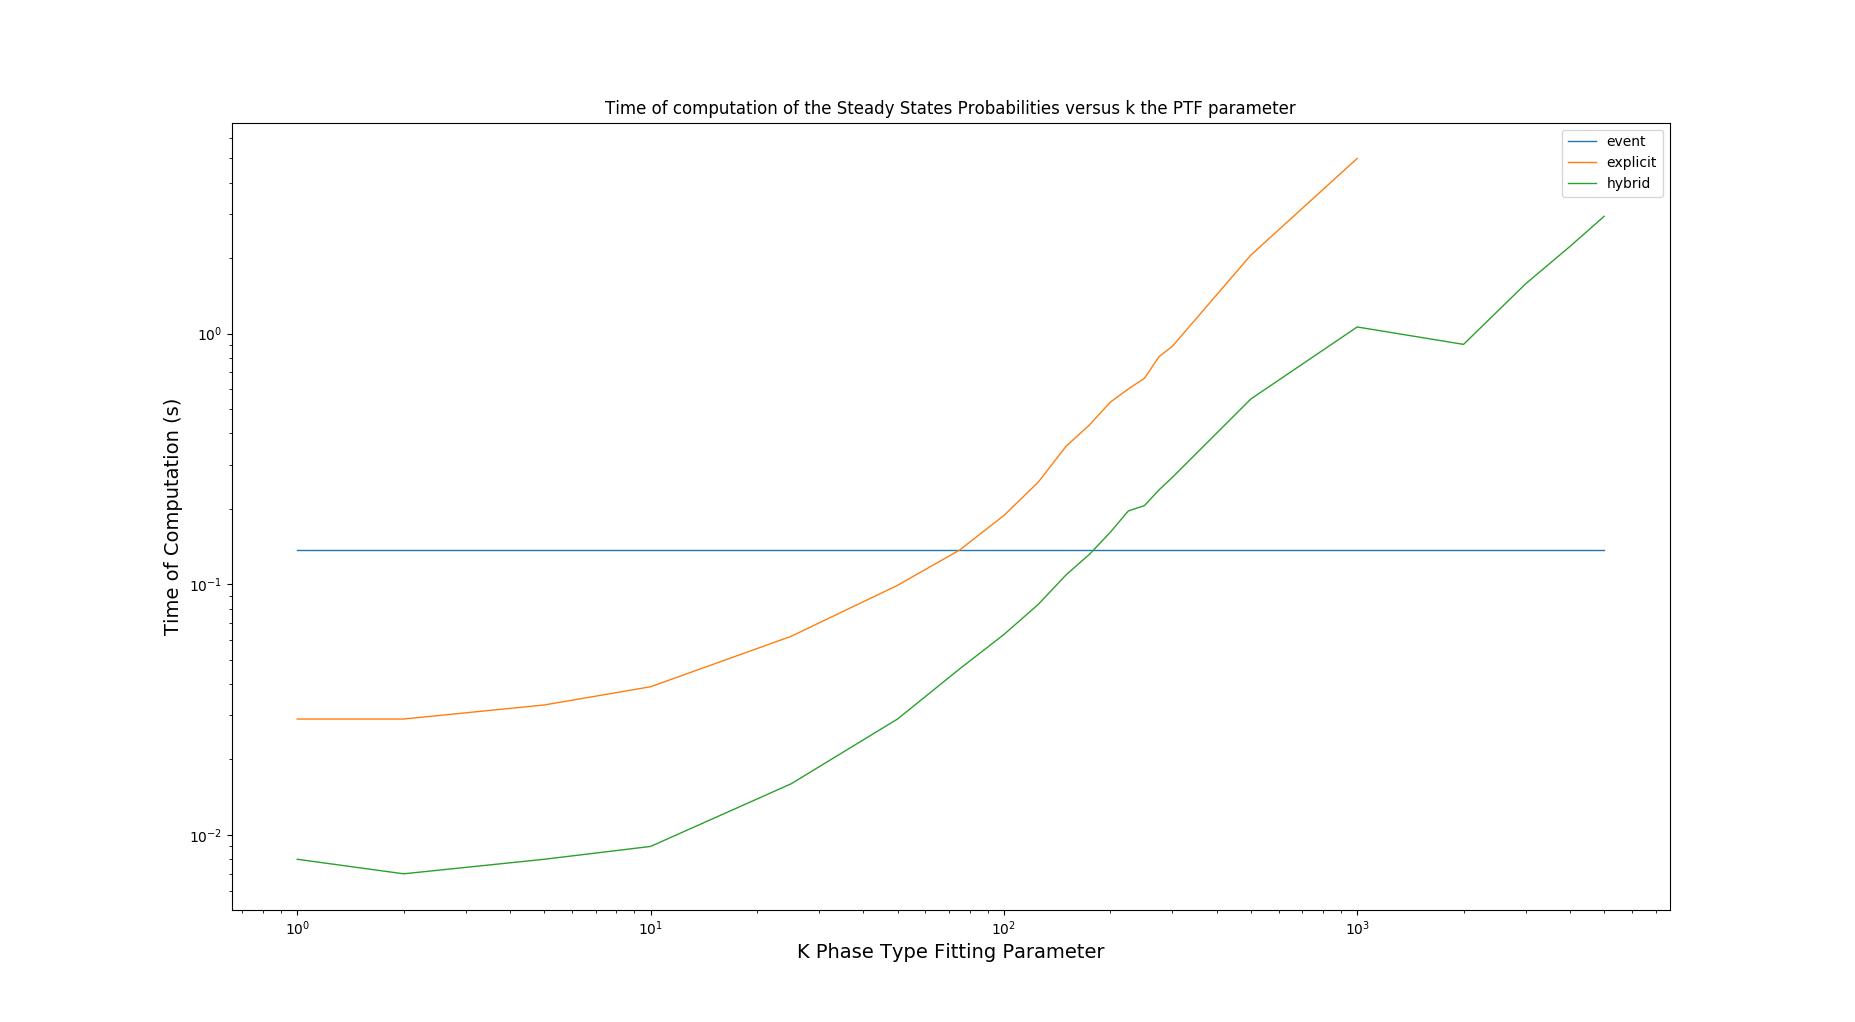
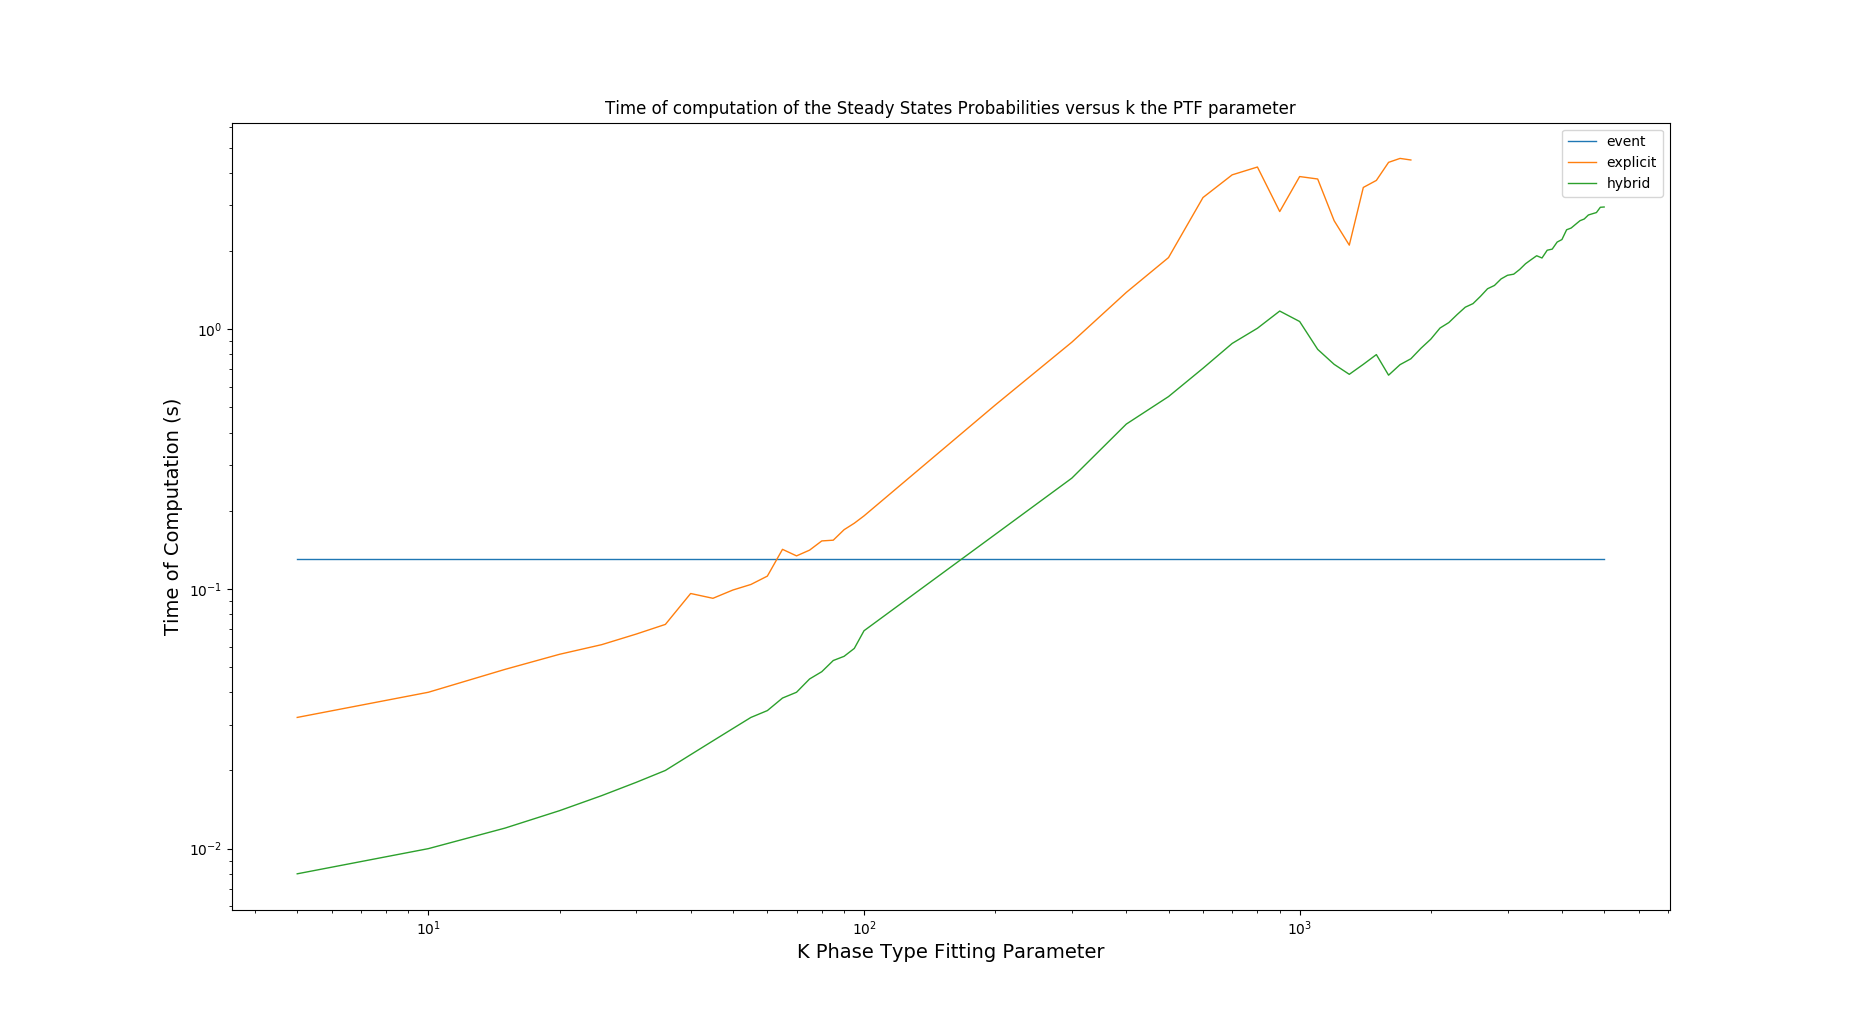
esp ==> esp

diff --git a/Python/curves.py b/Python/curves.py
@@ -8,7 +8,7 @@ from norm import *
 #GLOBAL VARIABLE
 path = '../Output/'
 eps = "1E-5"
-esp_precise = "1E-8"
+eps_precise = "1E-8"
 
 #CURVES
 def curve_10_random():
@@ -84,72 +84,36 @@ def curve01():
 ########################################################################
 #############################DISTANCE PER POINT#########################
 
-def diff_explicit_01():	
-	#t=0.1
-	#lambda=1/t
+def distance_per_state(t,kind_of_t,norm,engine):	
+	#CONSTANT
 	#n=10
-
+	#PARAMETERS : 
+	#1 	t(float) is the timeout in sec
+	#2 	kind_of_t(string) is how t was choosen in {"regular","median"} according to lambda
+	#3 	norm(string) is how the norm that must be use for defining the distance {"norm_2","norm_infinite"}
+	#4 	engine(string) is the engine used in computation {"explicit","hybrid"}
 	
-	subpath = 't=0.1/'
-	plt.yscale('linear')
-	plt.xscale('linear')
-	plt.xlabel('Size of the Queue', fontsize=14, color='black')
-	plt.ylabel('Euclidean distance per size', fontsize=14, color='black')
-	plt.title('distance of SSP for a queue versus phase type fitting parameter k\ntimeout=0.1,lambda=1/timeout,engine=explicit')
-	x = range(0,11,1)
-	k_array = [1, 2, 5, 25, 50, 75, 100, 125, 150, 175, 200, 225, 250, 275, 300]
-	#hybrid
+	#DATA
+	if (kind_of_t=="median"):												#set the kind_of_t for naming
+		subpath = 't='+str(t)+'_median/'
+	else:
+		subpath = 't='+str(t)+'/'
+
+	states = range(0,11,1)
+	k_explicit = read_file(path+subpath+engine+'k_array')						#load the bottom line for explicit
+	
+	
 	for k in k_array:
 		y_k = read_file(path+subpath+'explicit/sumph_10_'+str(k))
-		y_0 = read_file(path+subpath+'explicit/ev_10_k')
-		y = absolute(diff_array(y_0,y_k))
-		plt.plot(x, y, label = "k="+str(k),linewidth=0.5)
-	plt.legend()
-	plt.show()
-	
-def diff_hybrid_001():	
-	#t=0.1
-	#lambda=1/t
-	#n=10
-
-	
-	subpath = 't=0.1/'
-	plt.yscale('linear')
-	plt.xscale('linear')
-	plt.xlabel('Size of the Queue', fontsize=14, color='black')
-	plt.ylabel('Euclidean distance per size', fontsize=14, color='black')
-	plt.title('distance of SSP for a queue versus phase type fitting parameter k\ntimeout=0.1,lambda=1/timeout,engine=hybrid')
-	x = range(0,11,1)
-	k_array = [1, 2, 5, 25, 50, 75, 100, 125, 150, 175, 200, 225, 250, 275, 300, 400, 1000, 2000]
-	#hybrid
-	for k in k_array:
-		y_k = read_file(path+subpath+'hybrid/sumph_10_'+str(k))
 		y_0 = read_file(path+subpath+'ev_10')
 		y = absolute(diff_array(y_0,y_k))
-		plt.plot(x, y, label = "k="+str(k),linewidth=0.5)
-	plt.legend()
-	plt.show()
-
-def diff_explicit_001():	
-	#t=0.001
-	#lambda=1/t
-	#n=10
-
+		plt.plot(states, y, label = "k="+str(k),linewidth=0.5)
 	
-	subpath = 't=0.1/'
 	plt.yscale('linear')
 	plt.xscale('linear')
 	plt.xlabel('Size of the Queue', fontsize=14, color='black')
 	plt.ylabel('Euclidean distance per size', fontsize=14, color='black')
 	plt.title('distance of SSP for a queue versus phase type fitting parameter k\ntimeout=0.001,lambda=1/timeout,engine=explicit')
-	x = range(0,11,1)
-	k_array = [1, 2, 5, 25, 50, 75, 100, 125, 150, 175, 200, 225, 250, 275, 300]
-	#hybrid
-	for k in k_array:
-		y_k = read_file(path+subpath+'explicit/sumph_10_'+str(k))
-		y_0 = read_file(path+subpath+'ev_10')
-		y = absolute(diff_array(y_0,y_k))
-		plt.plot(x, y, label = "k="+str(k),linewidth=0.5)
 	plt.legend()
 	plt.show()	
 
@@ -172,11 +136,11 @@ def distance_plot(t,kind_of_t,norm):
 		subpath = 't='+str(t)+'/'
 	#EVENT
 	engine = "explicit/"												#set the engine for naming
-	y_event = read_file(path+subpath+engine+'ev_'+n+'_k_'+esp_precise) 	#this is the reference distribution
+	y_event = read_file(path+subpath+engine+'ev_'+n+'_k_'+eps_precise) 	#this is the reference distribution
 	#EXPLICIT
 	k_explicit = read_file(path+subpath+engine+'k_array')						#load the bottom line for explicit
 	result_explicit = np.array([])											
-	for k in k_explicit[0:len(k_explicit)-4]:
+	for k in k_explicit:
 		y_k = read_file(path+subpath+engine+'sumph_'+n+'_'+str(int(k))+'_'+eps)
 		if (norm == "norm_2"):
 			result = norm_2(diff_array(y_event,y_k))
@@ -207,7 +171,7 @@ def distance_plot(t,kind_of_t,norm):
 	plt.ylabel('Euclidean distance per distribution', fontsize=14, color='black')
 	plt.title('distance of SSP for a queue versus phase type fitting parameter k\ntimeout=0.1,lambda=1/timeout,engine=explicit')
 	plt.plot(k_hybrid, result_hybrid, label = "hybrid",linewidth=0.5)
-	plt.plot(k_explicit[0:len(k_explicit)-4], result_explicit, label = "explicit",linewidth=0.5)
+	plt.plot(k_explicit, result_explicit, label = "explicit",linewidth=0.5)
 	plt.legend()
 	plt.show()
 	
@@ -258,7 +222,7 @@ def performance(t,kind_of_t):
 	plt.title('Time of computation of the Steady States Probabilities versus k the PTF parameter')
 	
 	plt.plot(k_array, y_event*len(k_array), label = 'event',linewidth=1.0)
-	plt.plot(k_explicit[0:len(k_explicit)-4], y_explicit, label = 'explicit',linewidth=1.0)
+	plt.plot(k_explicit, y_explicit, label = 'explicit',linewidth=1.0)
 	plt.plot(k_hybrid, y_hybrid, label = 'hybrid',linewidth=1.0)
 	plt.legend()
 	plt.show()

diff --git a/Python/norm.py b/Python/norm.py
@@ -7,7 +7,7 @@ def read_file(filename):
 	file = open(filename, "r")
 	a = []
 	for line in file:
-	   a.append(float(line))
+		a.append(float(line))
 	return a
 
 def diff_array(a1,a2):
